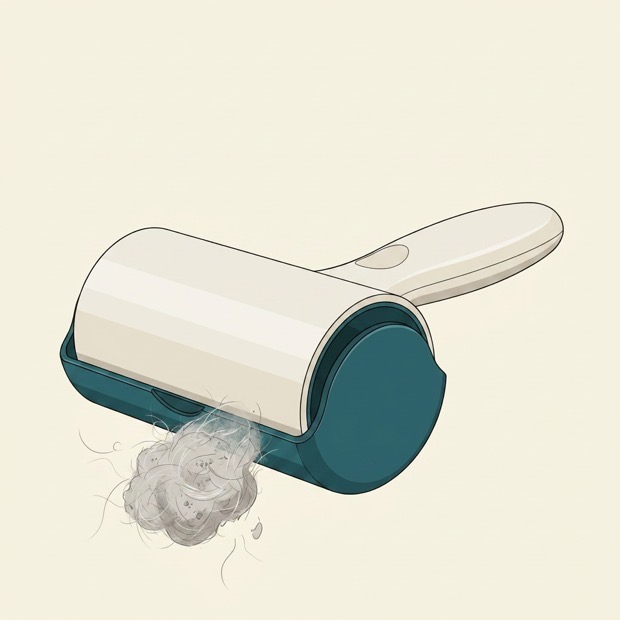
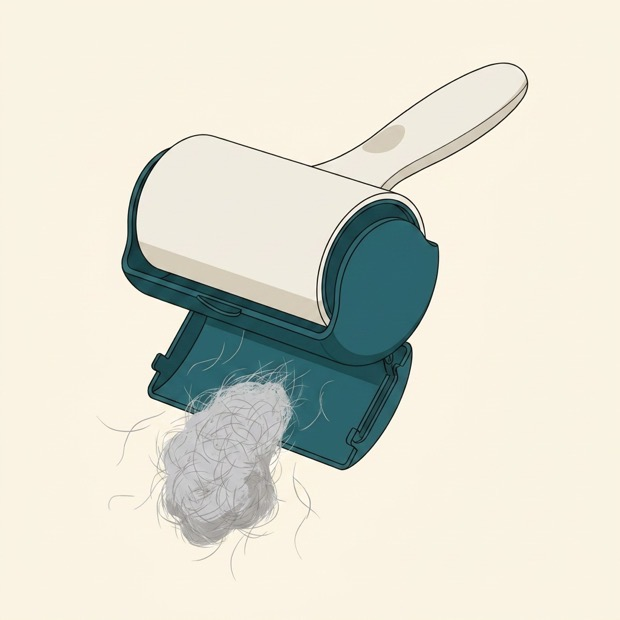
Corte y despiece dibujados a mano en SVG; video siempre en movimiento
El generador se desvio cuatro veces de la forma real del producto en las
ilustraciones tecnicas. Dibujados en SVG: forma exacta, 3 KB en vez de
201 KB, y el despiece se anima sin video.

El video de portada ya no se para nunca ni ensena controles.

diff --git a/index.html b/index.html
@@ -59,7 +59,7 @@
       </ul>
     </div>
     <div class="hero-media">
-      <video id="hero-video" width="1024" height="1024" muted loop playsinline
+      <video id="hero-video" width="1024" height="1024" muted loop autoplay playsinline disablepictureinpicture
              preload="none" poster="public/images/hero-560.jpg"
              aria-label="El rodillo ZEROPELO girando sobre sí mismo"></video>
       <noscript>
@@ -132,9 +132,7 @@
     </div>
     <div class="diagramas">
       <figure class="diag" style="margin:0">
-        <img src="public/images/corte.jpg" width="1024" height="1024" loading="lazy"
-             srcset="public/images/corte-600.jpg 620w, public/images/corte.jpg 1024w"
-             sizes="(max-width: 860px) 92vw, 46vw"
+        <img src="public/images/corte.svg" width="520" height="520" loading="lazy"
              alt="Corte del rodillo ZEROPELO: la cámara interior llena de pelo recogido">
         <figcaption class="pie-d">
           <h3>Dónde va el pelo</h3>
@@ -151,6 +149,15 @@
           <h3>Cómo se vacía</h3>
           <p>Abres la base y el pelo cae de una pieza. Dos segundos, sin tocarlo con la
           mano y sin nada que tirar salvo el propio pelo.</p>
+        </figcaption>
+      </figure>
+      <figure class="diag" style="margin:0">
+        <img src="public/images/despiece.svg" width="520" height="520" loading="lazy"
+             alt="Las tres piezas del rodillo separándose y volviendo a montarse">
+        <figcaption class="pie-d">
+          <h3>Tres piezas</h3>
+          <p>Mango, tambor y cuna. Nada más. Ninguna se gasta, ninguna caduca y
+          ninguna hay que volver a comprar.</p>
         </figcaption>
       </figure>
     </div>
@@ -383,11 +390,9 @@
   if (!v) return;
   var c = navigator.connection || {};
 
-  // Con mala conexion o ahorro de datos no se descarga el video: queda el
-  // poster de 27 KB. Es lo unico que justifica no cargarlo.
-  var conexionMala = c.saveData === true ||
-      (c.effectiveType && /^(slow-2g|2g|3g)$/.test(c.effectiveType));
-  if (conexionMala) return;
+  // Solo con ahorro de datos explicito se renuncia al video y queda el
+  // poster de 27 KB. En todo lo demas, el producto se mueve.
+  if (c.saveData === true) return;
 
   // Safari y iOS decodifican HEVC, que aqui pesa la mitad.
   var puedeHevc = document.createElement("video")
@@ -400,15 +405,16 @@
   v.preload = "auto";
   v.load();
 
-  // Quien pide menos movimiento NO deja de ver el video: deja de verlo
-  // moverse solo. Se le dan los controles y decide.
-  var pocoMovimiento = window.matchMedia("(prefers-reduced-motion: reduce)").matches;
-  if (pocoMovimiento) {
-    v.controls = true;
-    v.removeAttribute("loop");
-    return;
-  }
-  v.play().catch(function () { v.controls = true; });
+  // El producto gira siempre: es el escaparate. Sin controles a la vista.
+  v.play().catch(function () {
+    // Si el navegador bloquea la reproduccion automatica, un toque en
+    // cualquier parte de la pagina la arranca.
+    var arrancar = function () {
+      v.play();
+      document.removeEventListener("pointerdown", arrancar);
+    };
+    document.addEventListener("pointerdown", arrancar, { once: true });
+  });
 })();
 
 /* CONFIGURACION DE PAGO ---------------------------------------------

diff --git a/assets/styles.css b/assets/styles.css
@@ -198,15 +198,21 @@ details p{margin:14px 0 0;color:var(--tinta-suave);font-size:.96rem}
 
 /* despiece y corte */
 .tecnico{background:var(--papel);border-top:1px solid var(--borde);border-bottom:1px solid var(--borde)}
-.diagramas{display:grid;grid-template-columns:1fr 1fr;gap:26px;margin-top:8px}
+.diagramas{display:grid;grid-template-columns:repeat(3,1fr);gap:22px;margin-top:8px}
 .diag{background:var(--crema);border:1px solid var(--borde);border-radius:var(--r);
   overflow:hidden;display:flex;flex-direction:column}
 .diag img{width:100%;display:block}
 .diag .pie-d{padding:18px 22px 22px}
 .diag h3{margin:0 0 6px;font-size:1.02rem}
 .diag p{margin:0;font-size:.93rem;color:var(--tinta-suave)}
-@media(max-width:860px){.diagramas{grid-template-columns:1fr}}
+@media(max-width:980px){.diagramas{grid-template-columns:1fr}}
 
 /* video del hero */
 .hero-media{position:relative}
 .hero-media video{width:100%;height:auto;display:block;background:var(--papel)}
+
+/* el video del hero es escaparate, no reproductor */
+.hero-media video::-webkit-media-controls,
+.hero-media video::-webkit-media-controls-enclosure,
+.hero-media video::-webkit-media-controls-panel { display: none !important; }
+.hero-media video { pointer-events: none; }
